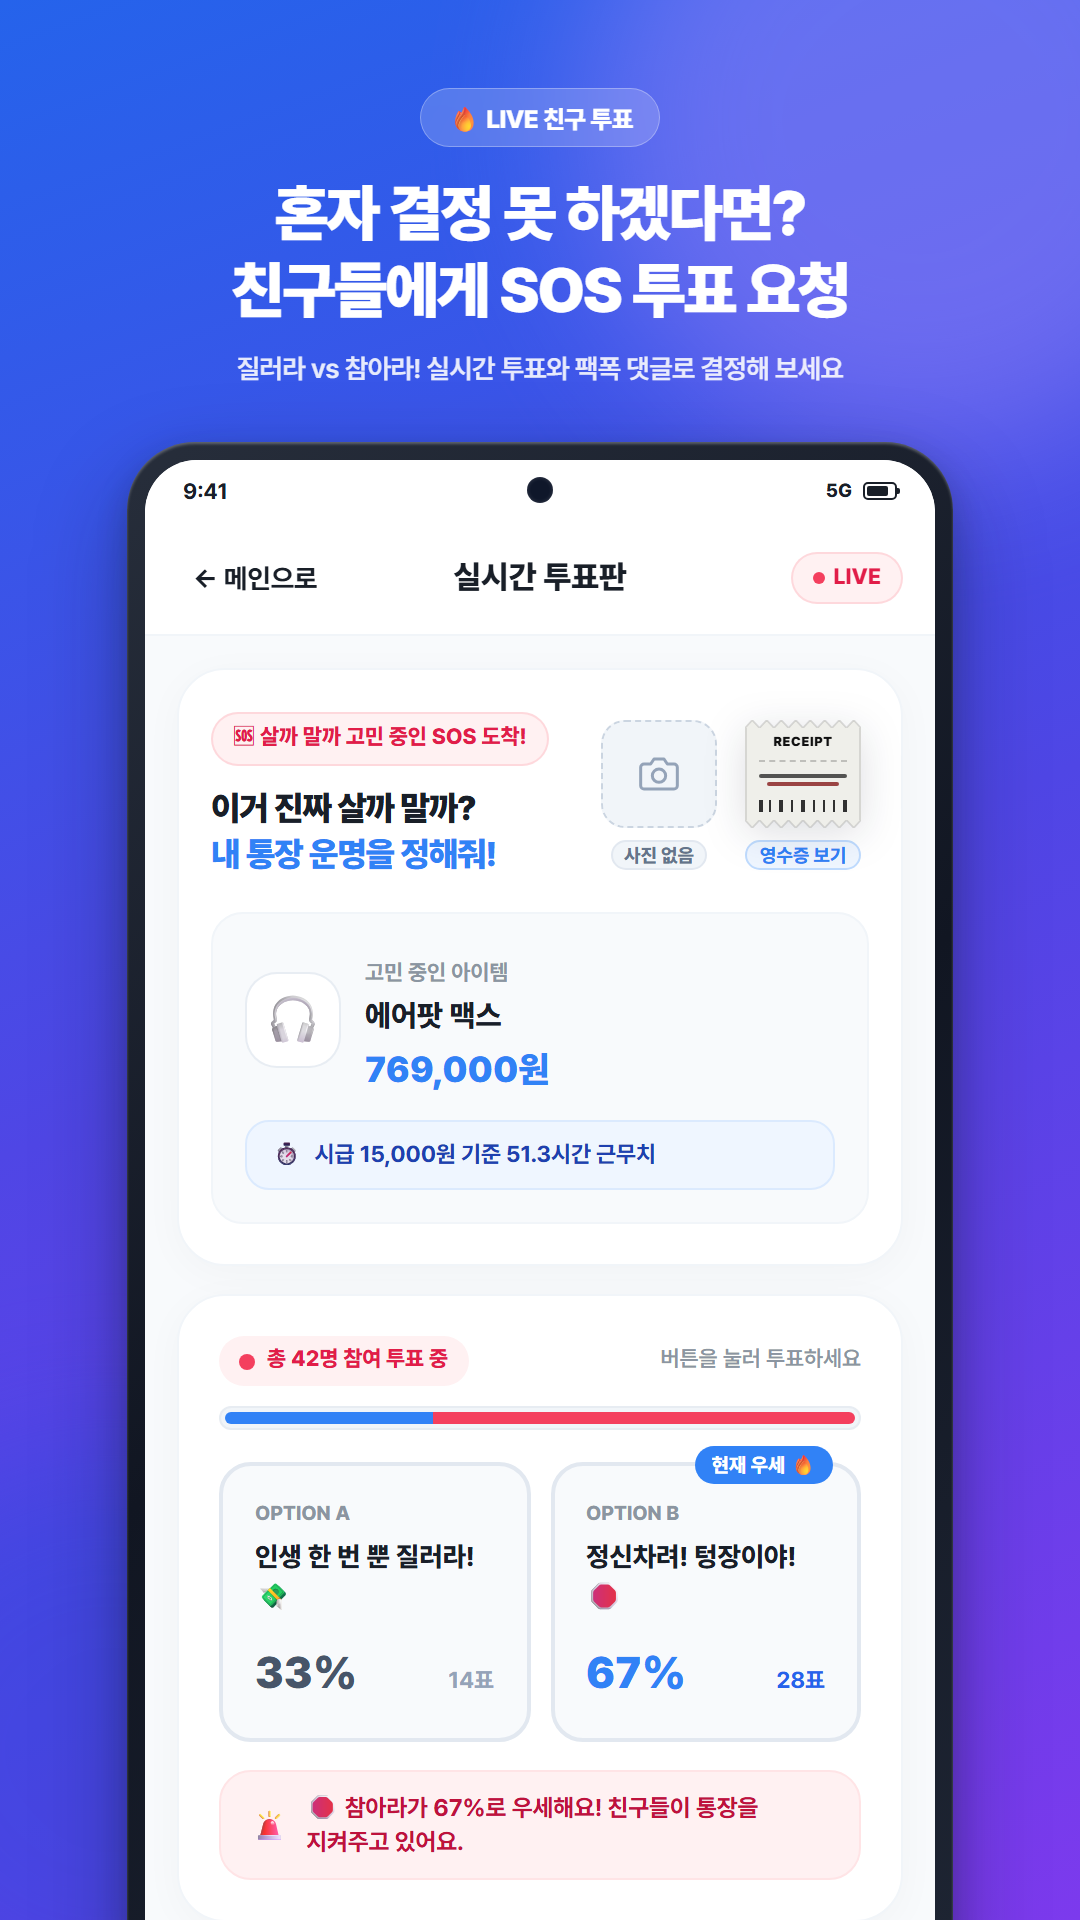
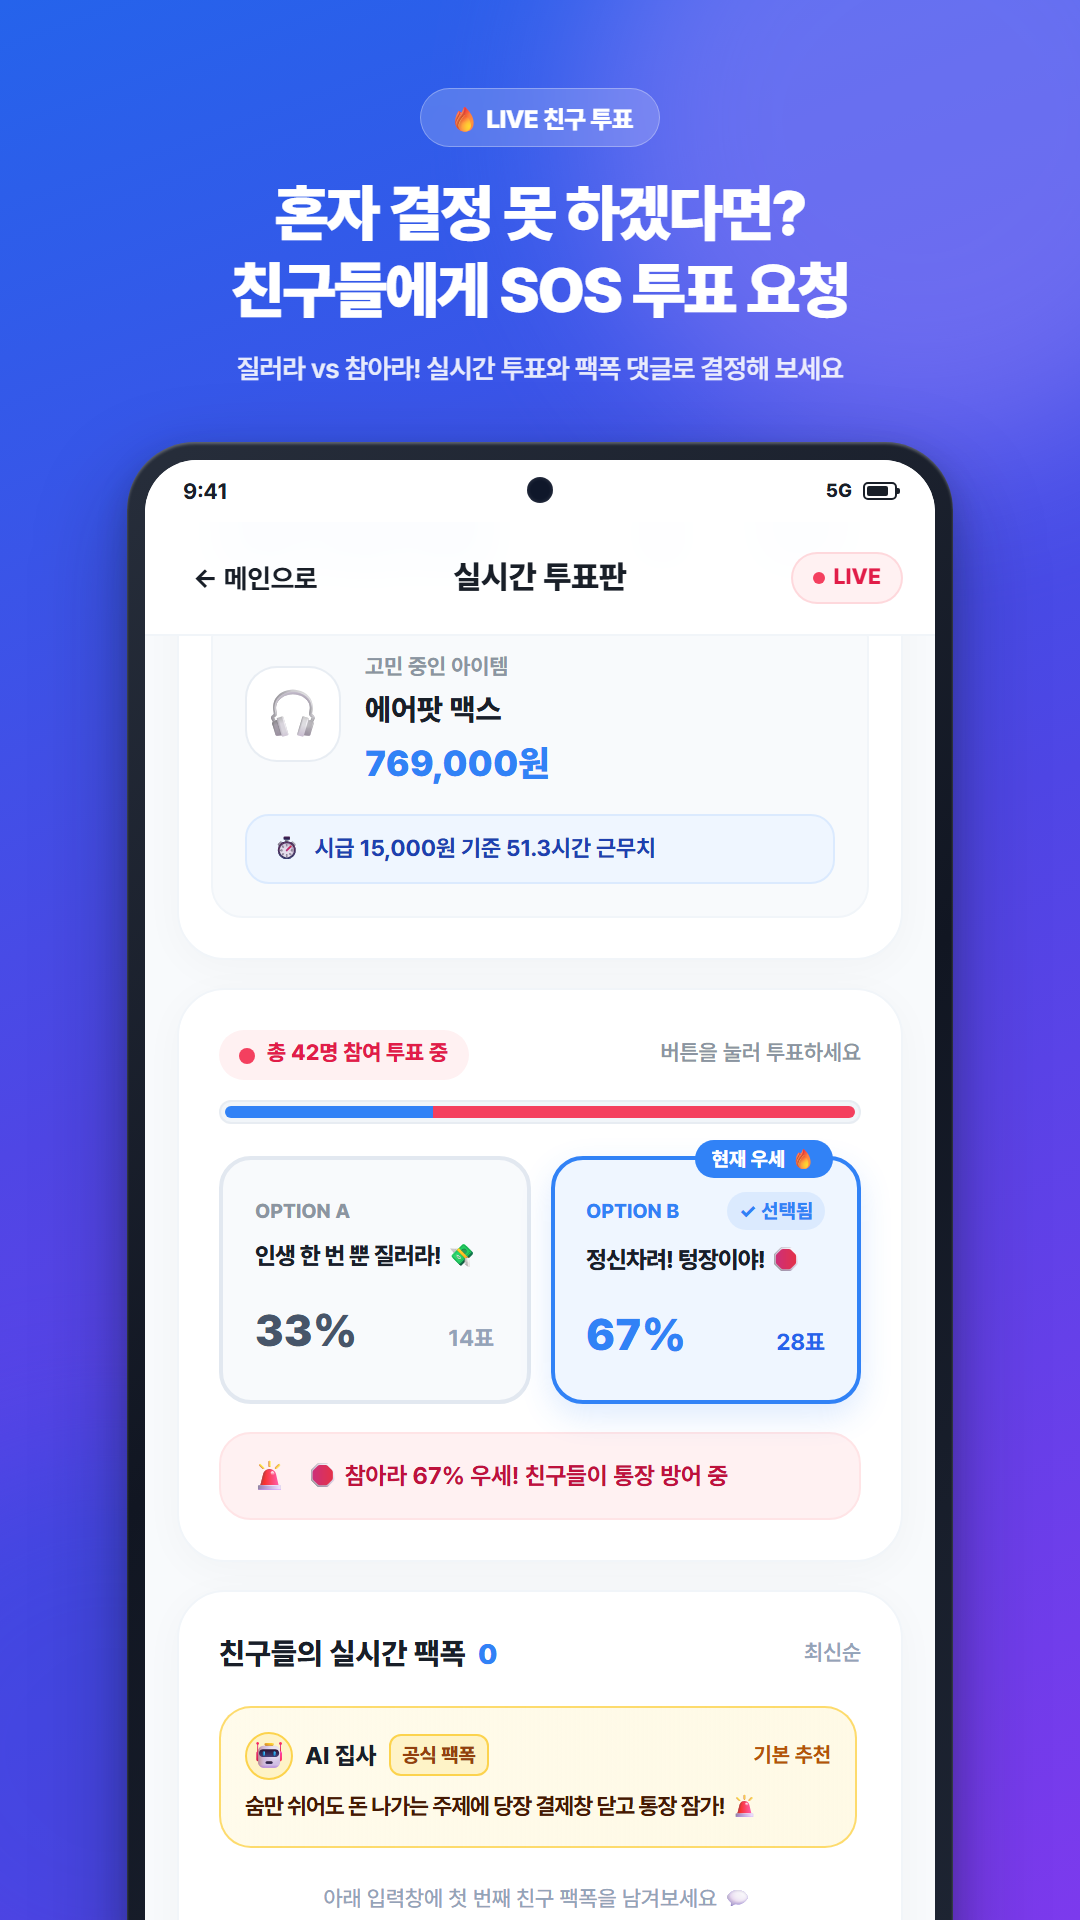
Keep poll choice titles single-line and polish screenshot 8 with selected state and live comments

diff --git a/index.html b/index.html
@@ -1044,7 +1044,7 @@
             <button
               type="button"
               id="voteBuyBtn"
-              class="poll-choice-unselected text-left rounded-2xl p-4 border-2 border-slate-200 bg-[#F8FAFC] active:scale-[0.98] transition-all cursor-pointer relative outline-none"
+              class="poll-choice-unselected text-left rounded-2xl px-3 py-3.5 border-2 border-slate-200 bg-[#F8FAFC] active:scale-[0.98] transition-all cursor-pointer relative outline-none"
             >
               <span id="voteBuyLeaderBadge" class="hidden absolute -top-2.5 right-3 bg-[#3182F6] text-white text-[10px] font-extrabold px-2 py-0.5 rounded-full shadow-2xs">
                 현재 우세 🔥
@@ -1053,7 +1053,7 @@
                 <span id="voteBuyOptionLabel" class="block text-[10px] font-extrabold text-[#8B95A1] uppercase">OPTION A</span>
                 <span id="voteBuyMyBadge" class="hidden text-[10px] font-extrabold text-[#3182F6] bg-[#DBEAFE] px-1.5 py-0.5 rounded-full whitespace-nowrap">✓ 선택됨</span>
               </div>
-              <p class="text-[13.5px] font-extrabold text-[#191F28] mt-1">
+              <p class="text-[12px] font-extrabold text-[#191F28] mt-1.5 whitespace-nowrap tracking-[-0.03em]">
                 인생 한 번 뿐 질러라! 💸
               </p>
               <div class="flex items-baseline justify-between mt-3">
@@ -1066,7 +1066,7 @@
             <button
               type="button"
               id="voteByeBtn"
-              class="poll-choice-unselected text-left rounded-2xl p-4 border-2 border-slate-200 bg-[#F8FAFC] active:scale-[0.98] transition-all cursor-pointer relative outline-none"
+              class="poll-choice-unselected text-left rounded-2xl px-3 py-3.5 border-2 border-slate-200 bg-[#F8FAFC] active:scale-[0.98] transition-all cursor-pointer relative outline-none"
             >
               <span id="voteLeaderBadge" class="hidden absolute -top-2.5 right-3 bg-[#3182F6] text-white text-[10px] font-extrabold px-2 py-0.5 rounded-full shadow-2xs">
                 현재 우세 🔥
@@ -1075,7 +1075,7 @@
                 <span id="voteByeOptionLabel" class="block text-[10px] font-extrabold text-[#8B95A1] uppercase">OPTION B</span>
                 <span id="voteByeMyBadge" class="hidden text-[10px] font-extrabold text-[#3182F6] bg-[#DBEAFE] px-1.5 py-0.5 rounded-full whitespace-nowrap">✓ 선택됨</span>
               </div>
-              <p class="text-[13.5px] font-extrabold text-[#191F28] mt-1">
+              <p class="text-[12px] font-extrabold text-[#191F28] mt-1.5 whitespace-nowrap tracking-[-0.03em]">
                 정신차려! 텅장이야! 🛑
               </p>
               <div class="flex items-baseline justify-between mt-3">
